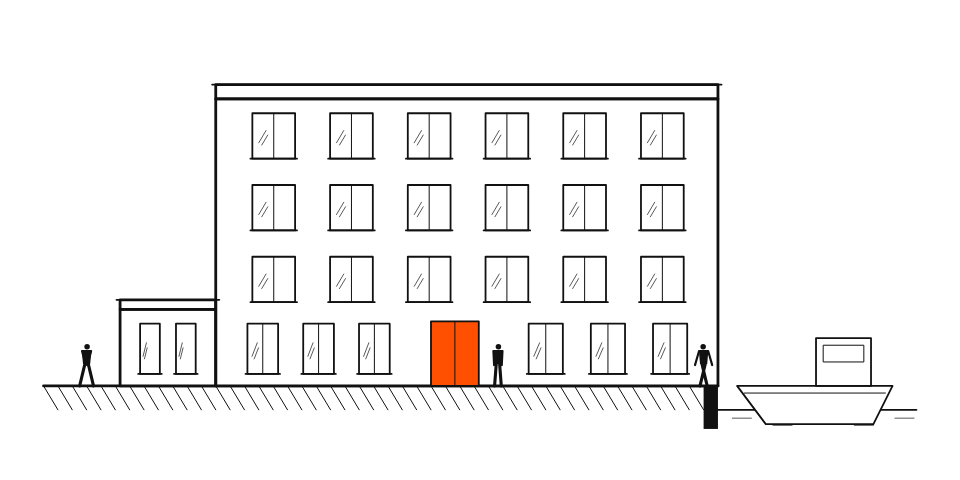
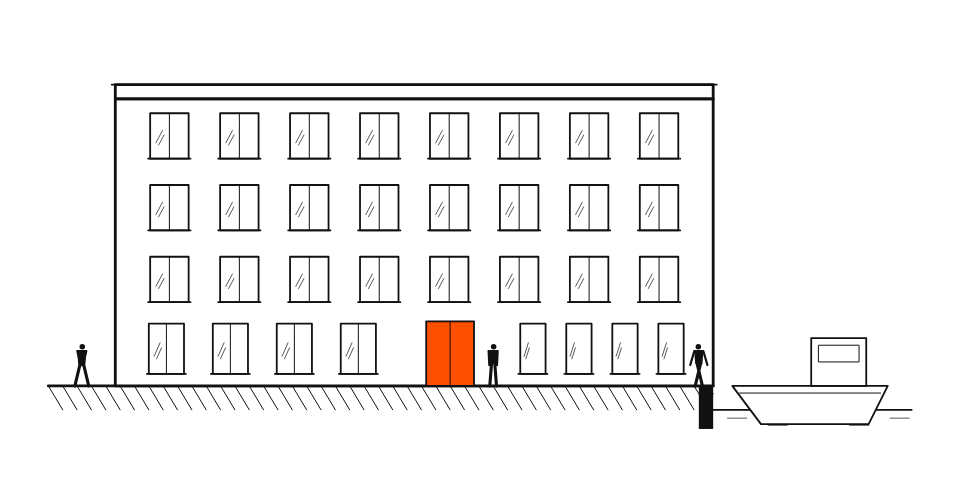
design: fix hero tree, caption wording and draw Maashaven as one 25 m block

diff --git a/index.html b/index.html
@@ -633,7 +633,7 @@ section[id] { scroll-margin-top: 5.5rem; }
       </div>
       <figure class="hero-figure">
         <img class="hero-fig" src="images/hero-section.svg" alt="Doorsnede door een bestaand pakhuis: zadeldak in zwart poche met oranje dakkapel, gesneden kopwanden met een raam op elke verdieping en een deur, twee ingevoegde vloerplaten, een trap, een maatvoering van 16,0 m en drie schaalfiguren op twee verdiepingen." width="560" height="400">
-        <figcaption>Fig. 01 — Doorsnede bestaand pakhuis: gesneden zadeldak met oranje dakkapel, kopwanden met ramen op elke verdieping en een deur, twee ingevoegde vloerplaten, trap, maatvoering 16,0 m en drie schaalfiguren op twee verdiepingen</figcaption>
+        <figcaption>Fig. 01 — Doorsnede bestaand pakhuis: gesneden zadeldak met oranje dakraam, kopwanden met ramen op elke verdieping en een deur, twee ingevoegde vloerplaten, trap, maatvoering 16,0 m en drie schaalfiguren op drie niveaus</figcaption>
       </figure>
     </div>
     <div class="container">

diff --git a/PROMPTS.md b/PROMPTS.md
@@ -19,7 +19,7 @@ vibe --agent <agent>
 | 5 | Project drawings with the kit | `wp-frontend-builder` | Six kit elevations at one scale, all checks pass; too small in the cards, see notes under 5 | this commit |
 | 6 | Redraw with shared scale, card options and a hero section | `wp-frontend-builder` | All checks pass, frames fit, hero is a section; but buildings were resized to fit the scale, see notes under 6 | this commit |
 | 7 | True sizes, 2:1 cards and a richer hero section | `wp-frontend-builder` | True sizes back, 2:1 cards at one scale, hero with openings and skylight; two small fixes left, see notes under 7 | this commit |
-| 8 | Hero tree, caption wording, one Maashaven block | `wp-frontend-builder` | Not run yet | – |
+| 8 | Hero tree, caption wording, one Maashaven block | `wp-frontend-builder` | All three fixed, every check passes with no warnings | this commit |
 | 9 | Convert to WordPress | `wp-frontend-builder` | Not run yet | – |
 
 ## 1. Build from brief
@@ -247,6 +247,16 @@ Why it is written this way:
 - **Exact caption wording:** a dakkapel is a dormer and the drawing shows a dakraam (skylight);
   the people stand on three levels. Giving the replacement text avoids another wrong guess.
 - **"Recompute the shared scale"**: a wider Maashaven drawing may set the scale for all six cards.
+
+Result: all seven generators and `check.mjs` `PASS` with no warnings.
+- **Hero:** the tree moved to x=18.8, clear of the cut wall; the kit's new warning is gone.
+- **Caption:** "oranje dakraam" and "op drie niveaus".
+- **Maashaven:** one 25 m block, eight bays on the upper floors. The shared scale stays 11.96
+  units/m, since De Bergweg's extent is still the widest. The other five card generators are
+  unchanged.
+- **Small leftovers:** the Maashaven ground-floor windows are two different widths left and right
+  of the door, and don't line up with the bays above. The agent also ran one shell loop
+  (`for n in …`), although the builder's instructions ask for one command per call.
 
 ## 9. Convert to WordPress
 
